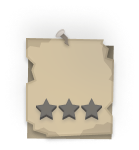
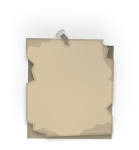
feat: add level unlocking and persistence

Changed region(s): [[0.259, 0.64, 0.7482, 0.8]]

diff --git a/states/levels_menu.py b/states/levels_menu.py
@@ -3,7 +3,8 @@ import sys
 
 import pygame
 
-from load_data import levels, menu_folder, menuBG
+from load_data import LEVELS, levels, menu_folder, menuBG
+from save_manager import is_level_unlocked, load_save
 from settings import FPS
 from states.level import Level
 from systems.tilemap import TiledMap
@@ -30,6 +31,9 @@ class LevelsMenu:
         graveyard_img = pygame.image.load(os.path.join(menu_folder, "graveyard bt.png"))
         level_unlocked_img = pygame.image.load(
             os.path.join(menu_folder, "Level/Unlocked.png")
+        )
+        level_locked_img = pygame.image.load(
+            os.path.join(menu_folder, "Level/Locked.png")
         )
         button_bg_image = pygame.image.load(
             os.path.join(menu_folder, "ButtonBg/Default.png")
@@ -60,6 +64,8 @@ class LevelsMenu:
             icon_size=30,
             on_click=on_back_click,
         )
+
+        completed_levels = load_save().get("completed_levels", [])
 
         def create_category_buttons():
             sw, sh = win.get_size()
@@ -109,19 +115,27 @@ class LevelsMenu:
             if category not in levels:
                 return btns
 
-            cat_levels = list(levels[category])
-            cat_levels.sort()
+            cat_levels = levels[category]
 
             cols = 4
             start_x = sw // 2 - (cols * (LEVEL_BUTTON_SIZE + BUTTON_SPACING)) // 2
 
-            for i, path in enumerate(cat_levels):
+            for i, level_info in enumerate(cat_levels):
                 row = i // cols
                 col = i % cols
 
-                # Capture path in closure
-                def make_on_click(p):
-                    return lambda: self.start_level(win, p)
+                locked = not is_level_unlocked(
+                    level_info["id"], LEVELS, completed_levels
+                )
+                btn_image = level_locked_img if locked else level_unlocked_img
+
+                def make_on_click(info):
+                    def on_click():
+                        self.start_level(win, info)
+                        nonlocal completed_levels, active_buttons
+                        completed_levels = load_save().get("completed_levels", [])
+                        active_buttons = create_level_buttons(current_category)
+                    return on_click
 
                 btn = Button(
                     x=start_x + col * (LEVEL_BUTTON_SIZE + BUTTON_SPACING),
@@ -129,9 +143,9 @@ class LevelsMenu:
                     width=LEVEL_BUTTON_SIZE,
                     height=LEVEL_BUTTON_SIZE,
                     text=str(i + 1),
-                    image=level_unlocked_img,
+                    image=btn_image,
                     text_color=(55, 51, 49),
-                    on_click=make_on_click(path),
+                    on_click=make_on_click(level_info) if not locked else lambda: None,
                 )
                 btn.set_font(font_size=50, bold=True)
                 btns.append(btn)
@@ -195,8 +209,8 @@ class LevelsMenu:
 
             pygame.display.flip()
 
-    def start_level(self, win, path):
+    def start_level(self, win, level_info):
         menuBG.stop()
-        maper = TiledMap(path)
-        Level(maper).draw()
+        maper = TiledMap(level_info["path"])
+        Level(maper, level_id=level_info["id"]).draw()
         menuBG.play(-1)

diff --git a/states/level.py b/states/level.py
@@ -7,7 +7,8 @@ import load_data
 from entities.enemy import Mushroom
 from entities.player import Player, death_animation
 from entities.water import WaterBody
-from load_data import coin_img, coin_sound, menu_folder, spalsh_sound1, spalsh_sound2
+from load_data import LEVELS, coin_img, coin_sound, menu_folder, spalsh_sound1, spalsh_sound2
+from save_manager import complete_level, get_next_level
 from settings import DEBUG, GRAVITY, VELOCITY
 from states.overlay import GameOverlay
 from systems import engine
@@ -17,8 +18,9 @@ coin_animation = engine.Animation(load_data.coin_animation_list, 4)
 
 
 class Level:
-    def __init__(self, maper):
+    def __init__(self, maper, level_id=None):
         self.maper = maper
+        self.level_id = level_id
         self.map_img = self.maper.make_map().convert()
         self.goal_rect = None
         self.coin_collected = 0
@@ -32,10 +34,6 @@ class Level:
                 {"text": "Home", "status": "home"},
                 {"text": "Quit", "status": "quit"},
             ],
-        )
-        self.win_overlay = GameOverlay(
-            "Level Complete!",
-            [{"text": "Home", "status": "home"}, {"text": "Quit", "status": "quit"}],
         )
         self.death_overlay = GameOverlay(
             "Game Over",
@@ -205,8 +203,33 @@ class Level:
             player.y += VELOCITY.y
 
             if self.goal_rect and player_hitbox.colliderect(self.goal_rect):
-                status = self.win_overlay.draw(win)
-                if status == "home":
+                if self.level_id:
+                    complete_level(self.level_id)
+
+                next_level = get_next_level(self.level_id, LEVELS) if self.level_id else None
+                if next_level:
+                    win_buttons = [
+                        {"text": "Next Level", "status": "next"},
+                        {"text": "Home", "status": "home"},
+                        {"text": "Quit", "status": "quit"},
+                    ]
+                    next_path = next_level["path"]
+                    next_id = next_level["id"]
+                else:
+                    win_buttons = [
+                        {"text": "Home", "status": "home"},
+                        {"text": "Quit", "status": "quit"},
+                    ]
+                    next_path = None
+                    next_id = None
+                win_overlay = GameOverlay("Level Complete!", win_buttons)
+                status = win_overlay.draw(win)
+                if status == "next":
+                    from systems.tilemap import TiledMap
+                    maper = TiledMap(next_path)
+                    Level(maper, level_id=next_id).draw()
+                    return
+                elif status == "home":
                     run = False
                 elif status == "quit":
                     pygame.quit()

diff --git a/save_manager.py b/save_manager.py
@@ -1,0 +1,52 @@
+import json
+import os
+
+SAVE_FILE = os.path.join(os.path.dirname(__file__), "save.json")
+
+DEFAULT_SAVE = {
+    "completed_levels": [],
+}
+
+
+def load_save():
+    if os.path.exists(SAVE_FILE):
+        try:
+            with open(SAVE_FILE, "r") as f:
+                return json.load(f)
+        except (json.JSONDecodeError, IOError):
+            return DEFAULT_SAVE.copy()
+    return DEFAULT_SAVE.copy()
+
+
+def save_game(data):
+    with open(SAVE_FILE, "w") as f:
+        json.dump(data, f, indent=2)
+
+
+def complete_level(level_id):
+    data = load_save()
+    if level_id not in data["completed_levels"]:
+        data["completed_levels"].append(level_id)
+    save_game(data)
+
+
+def is_level_unlocked(level_id, all_levels, completed_levels):
+    for i, level in enumerate(all_levels):
+        if level["id"] == level_id:
+            if i == 0:
+                return True
+            return all_levels[i - 1]["id"] in completed_levels
+    return False
+
+
+def get_next_level(level_id, all_levels):
+    for i, level in enumerate(all_levels):
+        if level["id"] == level_id:
+            if i + 1 < len(all_levels):
+                return all_levels[i + 1]
+            return None
+    return None
+
+
+def reset_progress():
+    save_game(DEFAULT_SAVE.copy())

diff --git a/load_data.py b/load_data.py
@@ -62,27 +62,16 @@ chest_openAnimation_list = [
 coin_img = pygame.image.load(os.path.join(coin_folder, "coin1.png"))
 # pinkey_img = pygame.image.load(os.path.join(player_folder, 'Pink_Monster.png')).convert()
 
-levels = {
-    "classic": {
-        os.path.join(
-            maps_folder,
-            "classic1.tmx",
-        ),
-        os.path.join(
-            maps_folder,
-            "classic2.tmx",
-        ),
-    },
-    "desert": {
-        os.path.join(
-            maps_folder,
-            "desert1.tmx",
-        )
-    },
-    "graveyard": {
-        os.path.join(
-            maps_folder,
-            "graveyard1.tmx",
-        )
-    },
-}
+LEVELS = [
+    {"id": "classic1", "path": os.path.join(maps_folder, "classic1.tmx"), "category": "classic", "name": "Classic 1"},
+    {"id": "classic2", "path": os.path.join(maps_folder, "classic2.tmx"), "category": "classic", "name": "Classic 2"},
+    {"id": "desert1", "path": os.path.join(maps_folder, "desert1.tmx"), "category": "desert", "name": "Desert 1"},
+    {"id": "graveyard1", "path": os.path.join(maps_folder, "graveyard1.tmx"), "category": "graveyard", "name": "Graveyard 1"},
+]
+
+levels = {}
+for lvl in LEVELS:
+    cat = lvl["category"]
+    if cat not in levels:
+        levels[cat] = []
+    levels[cat].append(lvl)
